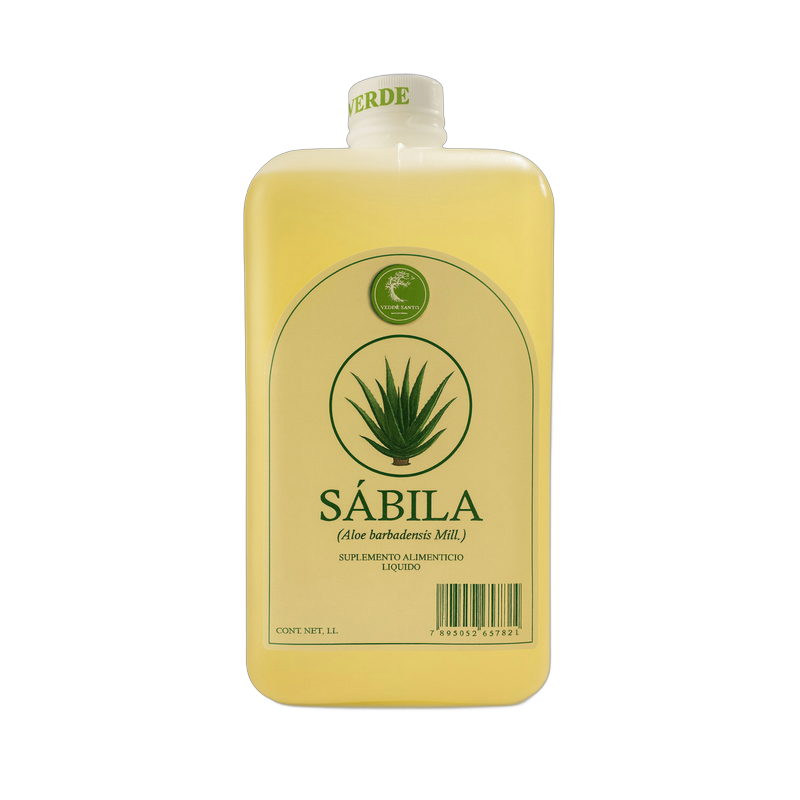
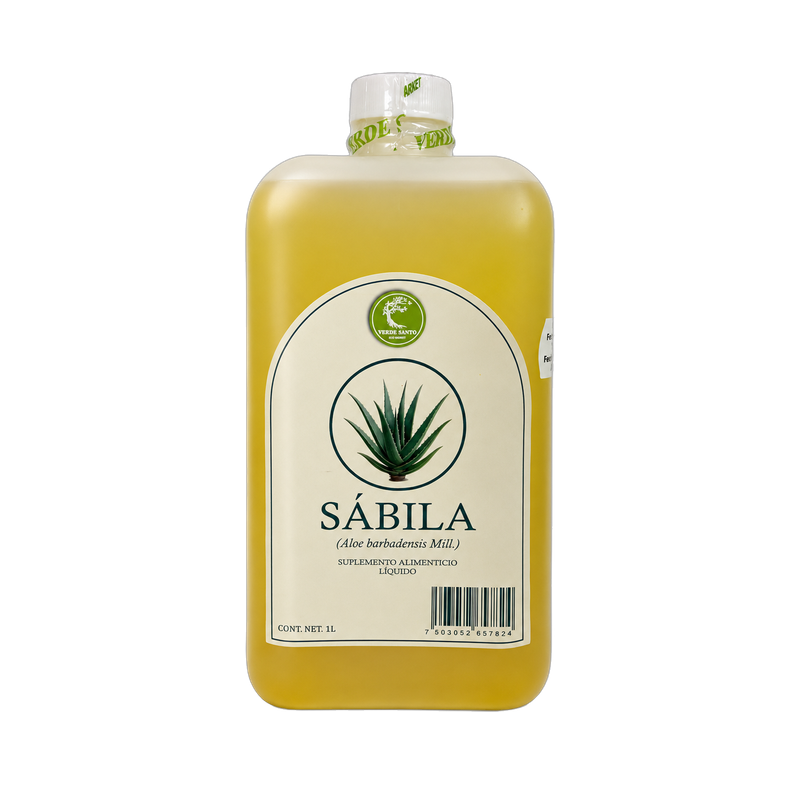
Cuatro Abuelas: marca nueva para los jugos PET y fotos nuevas de Verde Santo y OZ Automotriz
Claude-Session: https://claude.ai/code/session_01AKrZmH1crbVXwHC9NZ5z29

Changed region(s): [[0.2812, 0.0938, 0.7188, 0.9062]]

diff --git a/src/PedidoTabla.jsx b/src/PedidoTabla.jsx
@@ -455,7 +455,7 @@ const productCatalog = [
   {
     id: "vs-jugo-pet-puro-1l",
     sku: "VS001-PURO",
-    brand: "Verde Santo",
+    brand: "Cuatro Abuelas",
     product: "JUGO DE MAGUEY PURO",
     category: "Jugo de Maguey",
     subcategory: "Jugo Pet",
@@ -469,9 +469,11 @@ const productCatalog = [
     mostrador: 150.00,
     digital: 150.00,
     image:
-      "https://res.cloudinary.com/dl2s0vpwb/image/upload/f_auto,q_auto,w_400/v1791959668/verde-santo/vs-jugo-pet-puro-1l.png",
+      "https://res.cloudinary.com/dl2s0vpwb/image/upload/f_auto,q_auto,w_400/cuatro-abuelas/vs-jugo-pet-puro-1l.png",
     kitImage:
-      "/assets/verde-santo/productos/vs-jugo-pet-puro-1l.png",
+      "/assets/cuatro-abuelas/productos/vs-jugo-pet-puro-1l.png",
+    // Botella más angosta que la PET de Verde Santo: mismo alto en el kit.
+    kitVolumenMl: 1089,
   },
 
   {
@@ -609,7 +611,7 @@ const productCatalog = [
   {
     id: "vs-jugo-pet-nopal-1l",
     sku: "VS001-NOPAL",
-    brand: "Verde Santo",
+    brand: "Cuatro Abuelas",
     product: "JUGO DE MAGUEY CON NOPAL",
     category: "Jugo de Maguey",
     subcategory: "Jugo Pet",
@@ -623,15 +625,17 @@ const productCatalog = [
     mostrador: 150.00,
     digital: 150.00,
     image:
-      "https://res.cloudinary.com/dl2s0vpwb/image/upload/f_auto,q_auto,w_400/v1791959671/verde-santo/vs-jugo-pet-nopal-1l.png",
+      "https://res.cloudinary.com/dl2s0vpwb/image/upload/f_auto,q_auto,w_400/cuatro-abuelas/vs-jugo-pet-nopal-1l.png",
     kitImage:
-      "/assets/verde-santo/productos/vs-jugo-pet-nopal-1l.png",
+      "/assets/cuatro-abuelas/productos/vs-jugo-pet-nopal-1l.png",
+    // Botella más angosta que la PET de Verde Santo: mismo alto en el kit.
+    kitVolumenMl: 1089,
   },
 
   {
     id: "vs-jugo-pet-aloe-vera-1l",
     sku: "VS001-ALOEVERA",
-    brand: "Verde Santo",
+    brand: "Cuatro Abuelas",
     product: "JUGO DE MAGUEY CON ALOE VERA",
     category: "Jugo de Maguey",
     subcategory: "Jugo Pet",
@@ -645,9 +649,32 @@ const productCatalog = [
     mostrador: 150.00,
     digital: 150.00,
     image:
-      "https://res.cloudinary.com/dl2s0vpwb/image/upload/f_auto,q_auto,w_400/v1791959674/verde-santo/vs-jugo-pet-aloe-vera-1l.png",
+      "https://res.cloudinary.com/dl2s0vpwb/image/upload/f_auto,q_auto,w_400/cuatro-abuelas/vs-jugo-pet-aloe-vera-1l.png",
     kitImage:
-      "/assets/verde-santo/productos/vs-jugo-pet-aloe-vera-1l.png",
+      "/assets/cuatro-abuelas/productos/vs-jugo-pet-aloe-vera-1l.png",
+    // Botella más angosta que la PET de Verde Santo: mismo alto en el kit.
+    kitVolumenMl: 1089,
+  },
+
+  {
+    id: "ca-jugo-tatemado-11-plantas-1l",
+    sku: "CA-TATEMADO-11-PLANTAS",
+    brand: "Cuatro Abuelas",
+    product: "JUGO DE MAGUEY TATEMADO + 11 PLANTAS",
+    category: "Jugo de Maguey",
+    subcategory: "Jugo Pet",
+    description: "EXTRACTO TATEMADO + 11 PLANTAS · BOTELLA PET 1 LT",
+    presentation: "PET",
+    variant: "Tatemado",
+    // Precio provisional igual a los demás jugos PET; falta el de Diego.
+    price: 85.00,
+    unitPrice: 85.00,
+    mayoreo: 85.00,
+    mostrador: 150.00,
+    digital: 150.00,
+    image: "https://res.cloudinary.com/dl2s0vpwb/image/upload/f_auto,q_auto,w_400/cuatro-abuelas/ca-jugo-tatemado-11-plantas-1l.png",
+    kitImage: "/assets/cuatro-abuelas/productos/ca-jugo-tatemado-11-plantas-1l.png",
+    kitVolumenMl: 1089,
   },
 
   {
@@ -1063,7 +1090,7 @@ const productCatalog = [
   {
     id: "vs003-vinagre-manzana-pet-1l",
     sku: "VS003",
-    brand: "Verde Santo",
+    brand: "Cuatro Abuelas",
     product: "VINAGRE DE MANZANA",
     category: "Vinagre de Manzana",
     subcategory: "Vinagre Pet",
@@ -1076,9 +1103,11 @@ const productCatalog = [
     mostrador: 150.00,
     digital: 150.00,
     image:
-      "https://res.cloudinary.com/dhldooapx/image/upload/f_auto,q_auto,w_400/v1762466951/base_ezlxen.jpg",
+      "https://res.cloudinary.com/dl2s0vpwb/image/upload/f_auto,q_auto,w_400/cuatro-abuelas/vs003-vinagre-manzana-pet-1l.png",
     kitImage:
-      "/assets/verde-santo/productos/vs003-vinagre-manzana-pet-1l.png",
+      "/assets/cuatro-abuelas/productos/vs003-vinagre-manzana-pet-1l.png",
+    // Botella más angosta que la PET de Verde Santo: mismo alto en el kit.
+    kitVolumenMl: 1089,
   },
   {
     id: "vs004-vinagre-manzana-cristal-1l",
@@ -1096,7 +1125,7 @@ const productCatalog = [
     mostrador: 199.00,
     digital: 199.00,
     image:
-      "https://res.cloudinary.com/dhldooapx/image/upload/f_auto,q_auto,w_400/v1762466432/ec6e8842b12960986f38165be75c9d3e0b48be5b9a6a340079da23f019e3fd25_xcxlvx.png",
+      "https://res.cloudinary.com/dl2s0vpwb/image/upload/f_auto,q_auto,w_400/verde-santo/vs004-vinagre-manzana-cristal-1l-v2.png",
     kitImage:
       "/assets/verde-santo/productos/vs004-vinagre-manzana-cristal-1l.png",
   },
@@ -1110,13 +1139,14 @@ const productCatalog = [
     description: "CON MADRE · BOTELLA PET 2 LT",
     presentation: "PET",
     variant: "Pet 2 L",
-    price: 0,
-    unitPrice: 0,
-    mayoreo: 0,
+    // Costo y Mayoreo = Digital hasta que Diego dé su costo.
+    price: 199.00,
+    unitPrice: 199.00,
+    mayoreo: 199.00,
     mostrador: 199.00,
     digital: 199.00,
     image:
-      "https://res.cloudinary.com/diefezach/image/upload/f_auto,q_auto,w_400/v1749501816/V2L_z8hzvh.webp",
+      "https://res.cloudinary.com/dl2s0vpwb/image/upload/f_auto,q_auto,w_400/verde-santo/vs-vinagre-manzana-pet-2l-v2.png",
     kitImage:
       "/assets/verde-santo/productos/vs-vinagre-manzana-pet-2l.png",
   },
@@ -1138,11 +1168,32 @@ const productCatalog = [
     mostrador: 299.00,
     digital: 299.00,
     image:
-      "https://res.cloudinary.com/dhldooapx/image/upload/f_auto,q_auto,w_400/v1746042175/sgosvhk1dlpojh3fmbbp_w8go48.webp",
+      "https://res.cloudinary.com/dl2s0vpwb/image/upload/f_auto,q_auto,w_400/verde-santo/vs005-miel-agave-cristal-1370kg-v2.png",
     // 1.370 kg de miel caben en una botella de 1 L.
     kitVolumenMl: 1000,
     kitImage:
       "/assets/verde-santo/productos/vs005-miel-agave-cristal-1370kg.png",
+  },
+  {
+    id: "vs-miel-cana-1l",
+    sku: "VS-MIEL-CANA-1L",
+    brand: "Verde Santo",
+    product: "MIEL DE CAÑA",
+    category: "Miel de Caña",
+    subcategory: "Miel de Caña",
+    description: "JARABE DE PILONCILLO BLACKSTRAP · BOTELLA DE CRISTAL 1 LT",
+    presentation: "Cristal",
+    variant: "1 L",
+    // Sin precio de Diego todavía: en 0 queda oculto en el cotizador.
+    price: 0,
+    unitPrice: 0,
+    mayoreo: 0,
+    mostrador: 0,
+    digital: 0,
+    image: "https://res.cloudinary.com/dl2s0vpwb/image/upload/f_auto,q_auto,w_400/verde-santo/vs-miel-cana-1l.png",
+    kitImage: "/assets/verde-santo/productos/vs-miel-cana-1l.png",
+    // Misma botella que la Miel de Agave.
+    kitVolumenMl: 1000,
   },
 
   // INULINA DE AGAVE
@@ -1361,13 +1412,14 @@ const productCatalog = [
     description: "ALIMENTO LÍQUIDO · 4 LT",
     presentation: "4 LT",
     variant: "4 L",
-    price: 0,
-    unitPrice: 0,
-    mayoreo: 0,
+    // Costo y Mayoreo = Digital hasta que Diego dé su costo.
+    price: 169.00,
+    unitPrice: 169.00,
+    mayoreo: 169.00,
     mostrador: 169.00,
     digital: 169.00,
     image:
-      "https://res.cloudinary.com/diefezach/image/upload/f_auto,q_auto,w_400/v1756932691/ur3gpgugdgo3heurt8tb_cxnruo.webp",
+      "https://res.cloudinary.com/dl2s0vpwb/image/upload/f_auto,q_auto,w_400/verde-santo/vs-nectar-colibri-4l-v2.png",
     kitImage:
       "/assets/verde-santo/productos/vs-nectar-colibri-4l.png",
   },
@@ -1383,13 +1435,14 @@ const productCatalog = [
     description: "BEBIDA EN GARRAFA · 1 LT",
     presentation: "1 LT",
     variant: "Sábila",
-    price: 0,
-    unitPrice: 0,
-    mayoreo: 0,
+    // Costo y Mayoreo = Digital hasta que Diego dé su costo.
+    price: 89.00,
+    unitPrice: 89.00,
+    mayoreo: 89.00,
     mostrador: 89.00,
     digital: 89.00,
     image:
-      "https://res.cloudinary.com/dhldooapx/image/upload/f_auto,q_auto,w_400/v1760036988/sabila_eqvwn3.jpg",
+      "https://res.cloudinary.com/dl2s0vpwb/image/upload/f_auto,q_auto,w_400/verde-santo/vs-bebida-sabila-1l-v2.png",
     kitImage:
       "/assets/verde-santo/productos/vs-bebida-sabila-1l.png",
   },
@@ -1403,13 +1456,14 @@ const productCatalog = [
     description: "BEBIDA EN GARRAFA · 1 LT",
     presentation: "1 LT",
     variant: "Sábila y Nopal",
-    price: 0,
-    unitPrice: 0,
-    mayoreo: 0,
+    // Costo y Mayoreo = Digital hasta que Diego dé su costo.
+    price: 89.00,
+    unitPrice: 89.00,
+    mayoreo: 89.00,
     mostrador: 89.00,
     digital: 89.00,
     image:
-      "https://res.cloudinary.com/dhldooapx/image/upload/f_auto,q_auto,w_400/v1760036988/sabnop_vocqdn.jpg",
+      "https://res.cloudinary.com/dl2s0vpwb/image/upload/f_auto,q_auto,w_400/verde-santo/vs-bebida-sabila-nopal-1l-v2.png",
     kitImage:
       "/assets/verde-santo/productos/vs-bebida-sabila-nopal-1l.png",
   },
@@ -1423,15 +1477,69 @@ const productCatalog = [
     description: "BEBIDA EN GARRAFA · 1 LT",
     presentation: "1 LT",
     variant: "Sábila, Nopal y Cuachalalate",
-    price: 0,
-    unitPrice: 0,
-    mayoreo: 0,
+    // Costo y Mayoreo = Digital hasta que Diego dé su costo.
+    price: 89.00,
+    unitPrice: 89.00,
+    mayoreo: 89.00,
     mostrador: 89.00,
     digital: 89.00,
     image:
-      "https://res.cloudinary.com/dhldooapx/image/upload/f_auto,q_auto,w_400/v1760036988/sabnocua_zxdvyn.jpg",
+      "https://res.cloudinary.com/dl2s0vpwb/image/upload/f_auto,q_auto,w_400/verde-santo/vs-bebida-sabila-nopal-cuachalalate-1l-v2.png",
     kitImage:
       "/assets/verde-santo/productos/vs-bebida-sabila-nopal-cuachalalate-1l.png",
+  },
+
+  // OZ AUTOMOTRIZ (fotos de Diego, 2026-11-24)
+  {
+    id: "oz-apc-citrus-neutro-3-78l",
+    sku: "OZ-APC-CITRUS-3780",
+    brand: "OZ Automotriz",
+    product: "APC CITRUS NEUTRO",
+    category: "OZ Automotriz",
+    description: "LIMPIADOR CONCENTRADO MULTIUSOS RINDE 1:20 · GALÓN 3.78 LT",
+    variant: "Galón",
+    // Sin precio de Diego todavía: en 0 queda oculto en el cotizador.
+    price: 0,
+    unitPrice: 0,
+    mayoreo: 0,
+    mostrador: 0,
+    digital: 0,
+    image: "https://res.cloudinary.com/dl2s0vpwb/image/upload/f_auto,q_auto,w_400/oz-automotriz/oz-apc-citrus-neutro-3-78l.png",
+    kitImage: "/assets/oz-automotriz/productos/oz-apc-citrus-neutro-3-78l.png",
+  },
+  {
+    id: "oz-pintura-llantas-lata",
+    sku: "OZ-PINTURA-LLANTAS",
+    brand: "OZ Automotriz",
+    product: "PINTURA PARA LLANTAS PROFESIONAL",
+    category: "OZ Automotriz",
+    description: "ACABADO INTENSO · LATA",
+    variant: "Lata",
+    // Sin precio de Diego todavía: en 0 queda oculto en el cotizador.
+    price: 0,
+    unitPrice: 0,
+    mayoreo: 0,
+    mostrador: 0,
+    digital: 0,
+    image: "https://res.cloudinary.com/dl2s0vpwb/image/upload/f_auto,q_auto,w_400/oz-automotriz/oz-pintura-llantas-lata.png",
+    kitImage: "/assets/oz-automotriz/productos/oz-pintura-llantas-lata.png",
+  },
+  {
+    id: "oz-negro-absoluto-180g",
+    sku: "OZ-NEGRO-ABSOLUTO-180",
+    brand: "OZ Automotriz",
+    product: "NEGRO ABSOLUTO RESTAURADOR",
+    category: "OZ Automotriz",
+    description: "RENOVADOR DE PLÁSTICOS, GOMAS, LLANTAS Y HULES · FRASCO 180 GR",
+    variant: "180 g",
+    // Sin precio de Diego todavía: en 0 queda oculto en el cotizador.
+    price: 0,
+    unitPrice: 0,
+    mayoreo: 0,
+    mostrador: 0,
+    digital: 0,
+    image: "https://res.cloudinary.com/dl2s0vpwb/image/upload/f_auto,q_auto,w_400/oz-automotriz/oz-negro-absoluto-180g.png",
+    kitImage: "/assets/oz-automotriz/productos/oz-negro-absoluto-180g.png",
   },
 
   // RETOKCAR · Esmalte retocador automotriz 15 ml.
@@ -2865,6 +2973,7 @@ const MARCAS_PRECIO_FIJO = [
   "fratelo",
   "magníficos de la limpieza",
   "dtup",
+  "oz automotriz",
 ];
 
 function esMarcaPrecioFijo(brand = "") {
@@ -2895,6 +3004,7 @@ function precioPublico(
 
     if (
       brandNormalizada === "verde santo" ||
+      brandNormalizada === "cuatro abuelas" ||
       esMarcaPrecioFijo(brandNormalizada)
     ) {
   const precioInterno = Number(
@@ -3071,6 +3181,7 @@ const MARCAS_PUBLICAN_DIGITAL_EN_ML = [
   "fratelo",
   "magníficos de la limpieza",
   "dtup",
+  "oz automotriz",
 ];
 
 function publicaDigitalEnML(item = {}) {
